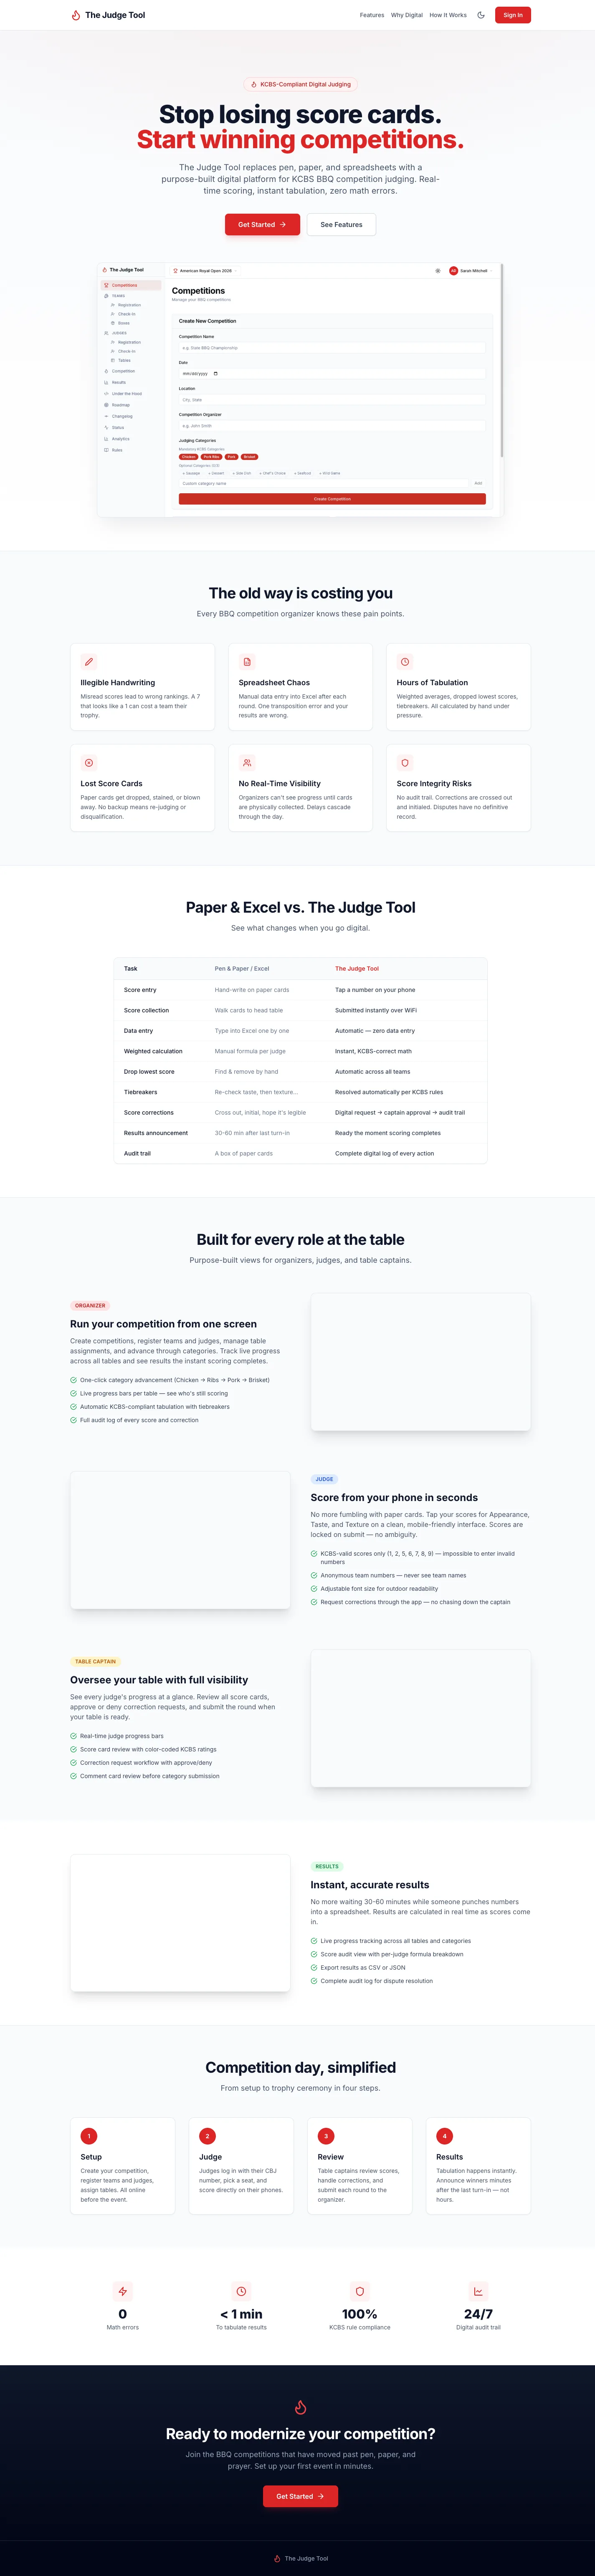
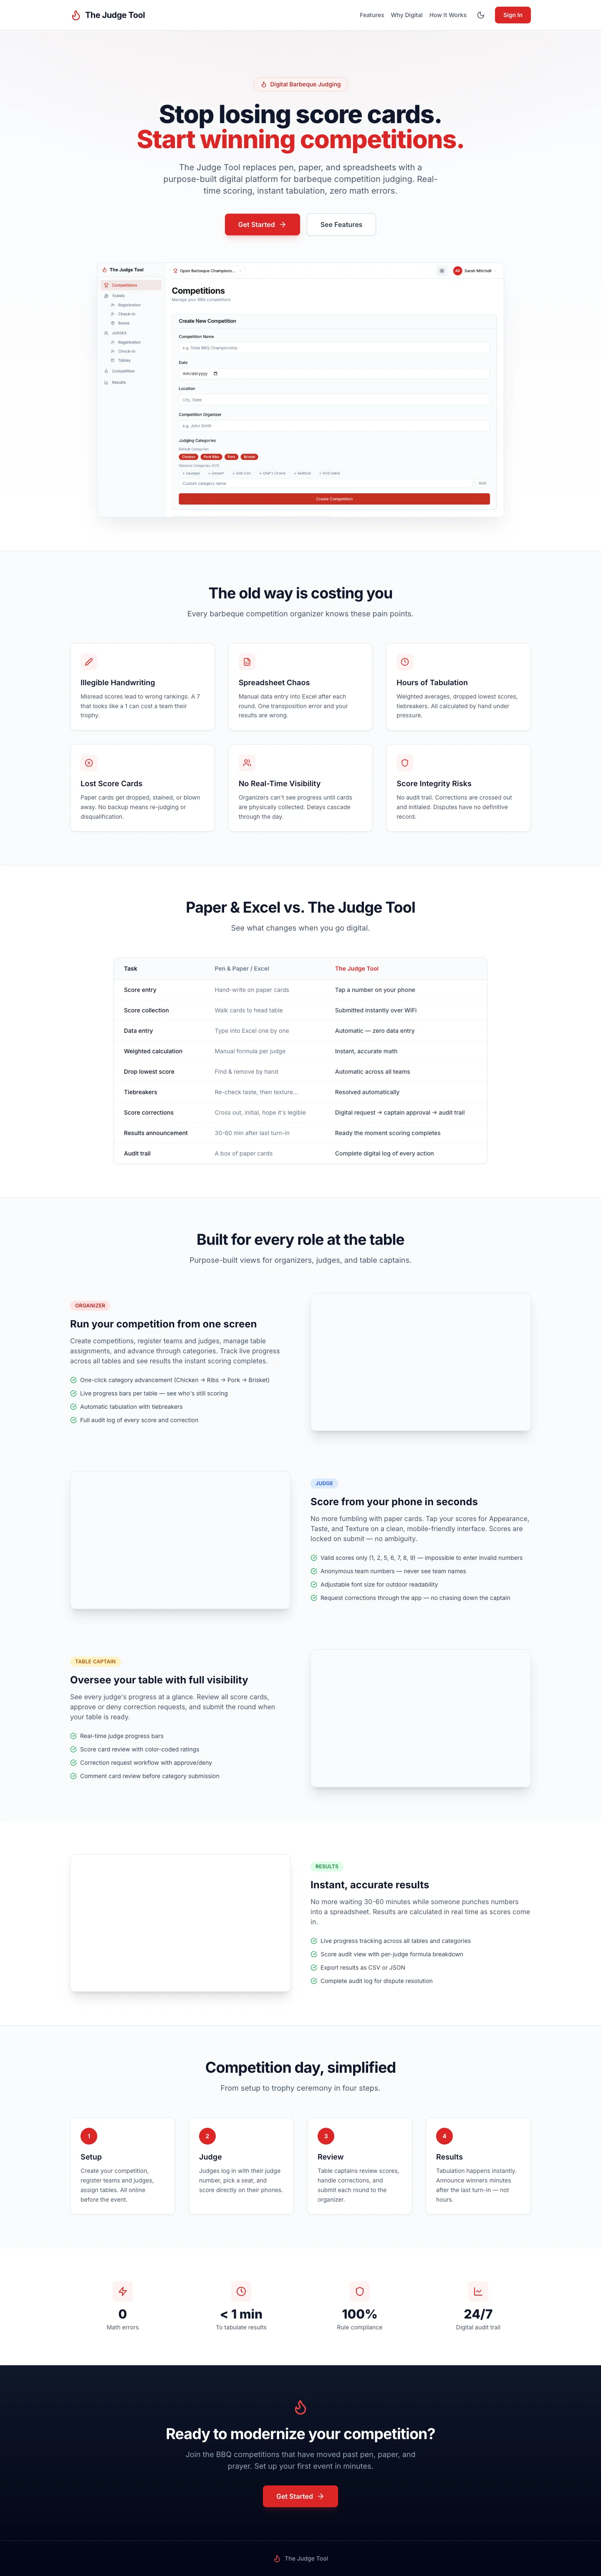
chore: refresh Judge Tool screenshots — drop American Royal, update marketing site
- live-home.{webp,avif}: fresh marketing site screenshot (1440×6173)
  title now reads "Barbeque Competition Judging Platform", no KCBS
- organizer-competition-control.{webp,avif}: updated competition name
  "American Royal Open 2026" → "Open Barbeque Championship 2026"
- tech/index.html: fix live-home img width 1425 → 1440

diff --git a/projects/judge-tool/tech/index.html b/projects/judge-tool/tech/index.html
@@ -244,7 +244,7 @@ Tests
       <h2>Live screenshots</h2>
       <picture>
         <source srcset="/assets/work/judge-tool/live-home.avif" type="image/avif">
-        <img src="/assets/work/judge-tool/live-home.webp" width="1425" height="6173" alt="The Judge Tool marketing site home page" class="screenshot" loading="lazy">
+        <img src="/assets/work/judge-tool/live-home.webp" width="1440" height="6173" alt="The Judge Tool marketing site home page" class="screenshot" loading="lazy">
       </picture>
       <p class="screenshot-caption">The public marketing site at <a href="https://thejudgetool.com">thejudgetool.com</a>.</p>
       <picture>